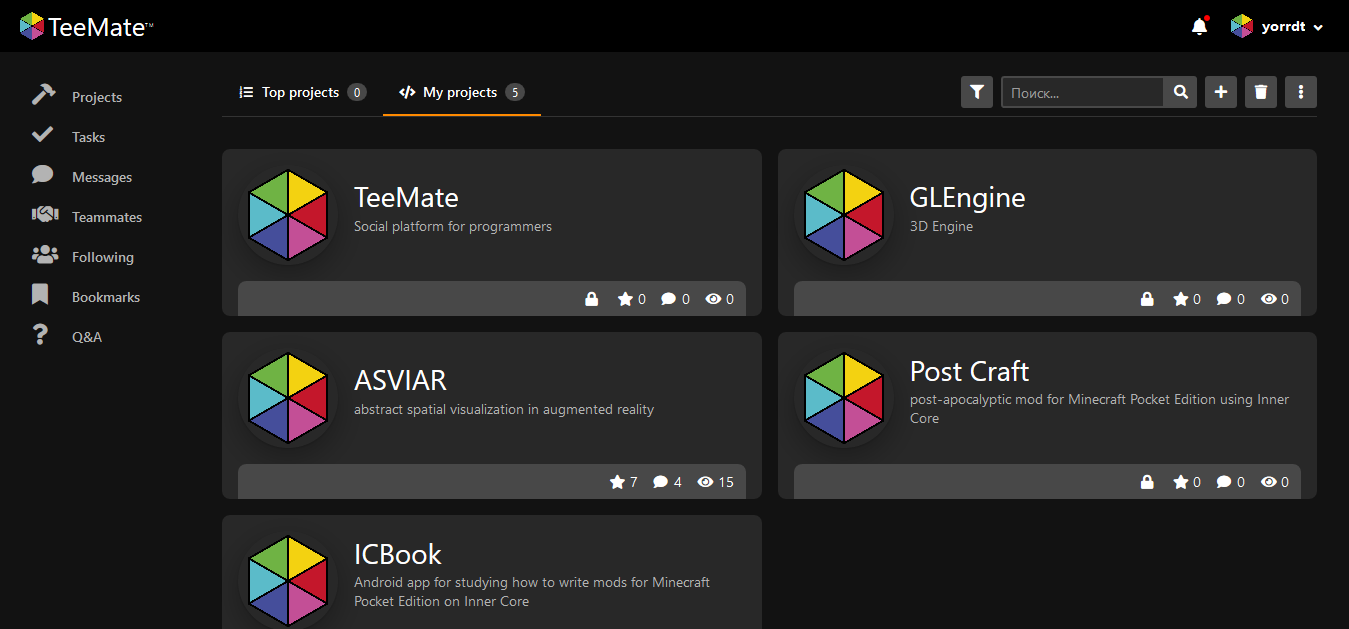
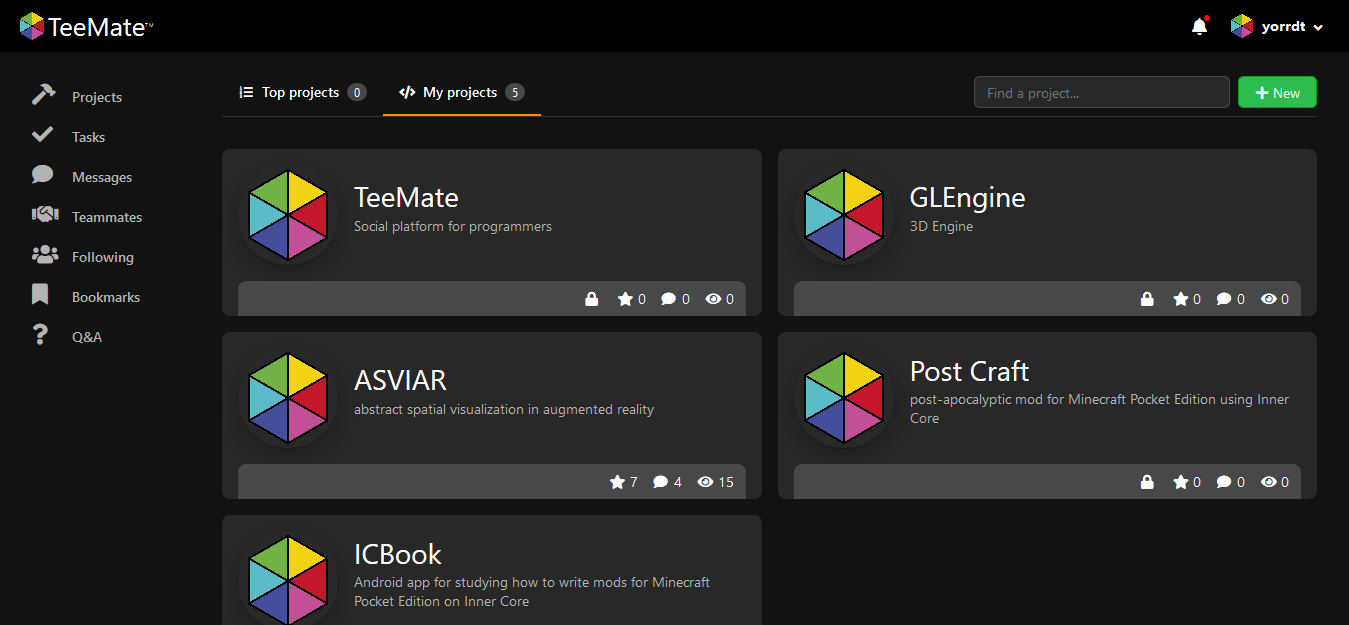
changed content-header, new illustration

diff --git a/components/style/projects.css b/components/style/projects.css
@@ -1,7 +1,3 @@
-/* --------------------------------------------------- */
-/* --------------- SECTION_CONTAINER ----------------- */
-/* --------------------------------------------------- */
-
 .section-wrapper {
 	width: calc(100% - 190px);
 }
@@ -84,46 +80,14 @@
 	font-weight: 600;
 }
 
-/* --------------------------------------------- */
+/* ------------------------------------------------ */
 
-.content-navbar ul {
+.content-navbar {
+
+}
+
+.content-navbar > form {
 	display: flex;
-}
-
-.content-navbar-item {
-	margin-left: 8px;
-	display: flex;
-}
-
-.form-search {
-	background-color: var(--container);
-	border-bottom-left-radius: 3px;
-	border-top-left-radius: 3px;
-	padding: 0 8px;
-	border: 0;	
-	border: 2px solid var(--container-light);
-	height: 32px;
-}
-
-.content-navbar-button {
-	display: flex;
-	align-items: center;
-	color: var(--white);
-	background-color: var(--container-light);
-	border-radius: 3px;
-	cursor: pointer;
-	height: 32px;
-	border: 0;
-}
-
-.content-navbar-button:hover > .fa-plus { 
-	background-color: var(--green);
-	border-radius: 3px;
-}
-
-.content-navbar-button:hover > .fa-trash { 
-	background-color: var(--red);
-	border-radius: 3px;
 }
 
 .content-navbar-search {
@@ -131,18 +95,48 @@
 	align-items: center;
 }
 
-.content-navbar-search > .content-navbar-button {
-	border-bottom-left-radius: 0;
-	border-top-left-radius: 0;
+.content-navbar-items {
+	display: flex;
+	margin-left: 8px;
+}
+
+.form-search {
+	background-color: var(--container);
+	border-radius: 6px;
+	line-height: 20px;
+	padding: 5px 12px;
+	border: 0;
+	border: 1px solid var(--container-light);
+	outline: none;
+	height: 32px;
+	width: 256px;
+	color: var(--gray-color);
+}
+
+.button-link {
+	text-align: center;
+}
+
+.btn {
+	position: relative;
+	display: inline-block;
+	color: var(--white);
+	border-radius: 6px;
+	cursor: pointer;
+	padding: 5px 16px;
+	user-select: none;
+	line-height: 20px;
+	font-weight: 500;
+}
+
+.btn-primary {
+	background-color: var(--green);
+	border: 1px solid var(--green-dark);
 }
 
 .button-icon {
-	color: var(--white);
-	height: 32px;
-	width: 32px;
-	line-height: 32px;
-	text-align: center;
-	font-size: 1em;
+	width: 14px;
+	height: 14px;
 }
 
 /* ----------------------------------------------------- */

diff --git a/components/html/projects.html b/components/html/projects.html
@@ -14,39 +14,18 @@
 				</a>
 			</nav>
 			<div class="content-navbar">
-				<ul>
-					<li class="content-navbar-item">
-						<button class="content-navbar-button">
-							<span class="button-icon fas fa-filter"></span>
-						</button>
-					</li>
-					<li class="content-navbar-item">
-						<div class="content-navbar-search">
-							<input class="form-search" type="text" placeholder="Поиск...">
-							<button class="content-navbar-button">
-								<span class="button-icon fas fa-search"></span>
-							</button>
-						</div>
-					</li>
-					<li class="content-navbar-item">
-						<button class="content-navbar-button">
+				<form>
+					<div class="content-navbar-search">
+						<input class="form-search" type="text" placeholder="Find a project...">
+					</div>
+					<div class="content-navbar-items">
+						<!-- TO DO: Filter will be here -->
+						<NuxtLink class="button-link btn btn-primary" to="/">
 							<span class="button-icon fas fa-plus"></span>
-						</button>
-					</li>
-					<li class="content-navbar-item">
-						<button class="content-navbar-button">
-								<span class="button-icon fas fa-trash"></span>
-						</button>
-					</li>
-					<li class="content-navbar-item">
-						<button class="content-navbar-button">
-							<span class="button-icon fas fa-ellipsis-v"></span>
-						</button>
-						<ul>
-							<li></li>
-						</ul>
-					</li>
-				</ul>
+							New
+						</NuxtLink>
+					</div>
+				</form>
 			</div>
 		</div>
 		<div class="main-content">

diff --git a/components/alt/html/header.html b/components/alt/html/header.html
@@ -19,7 +19,7 @@
 						<img class="account-image" height="28px" width="28px" src="~/assets/logo.png" alt="">
 					</figure>
 					<span class="account-username">yorrdt</span>
-					<span class="dropdown" :class="[visible ? 'fas fa-angle-up' : 'fas fa-angle-down']"></span> 
+					<span class="dropdown" :class="[visible ? 'fas fa-angle-up' : 'fas fa-angle-down']"></span>
 				</button>
 				<ul class="dropdown-menu" v-show="visible">
 					<li>
@@ -37,7 +37,6 @@
 					</li>
 				</ul>
 			</div>
-			<div></div>
 		</div>
 		<div class="mobile-navi">
 			<a class="hamburger-wrapper-ref" href="/">

diff --git a/assets/main.css b/assets/main.css
@@ -10,7 +10,8 @@
 	--container-lighter: #585858;
 	--panel-orange: #ff8a00;
 	--green: #2ebc4f;
-	--red: #cb2431;
+	--green-dark: #0e9c1f;
+	--red: #cb2431; /* #cf513d to #eb5a46  */
 	--border: #333;
 	--link: #0366d6;
 }
@@ -32,11 +33,11 @@ body, button, input {
 	color: var(--white);
 }
 
-main, section, nav, header, footer, aside {
+article, aside, details, figcaption, figure, footer, header, main, menu, nav, section {
 	display: block;
 }
 
-ul, ol {
+ul, ol, summary {
 	list-style: none;
 }
 
